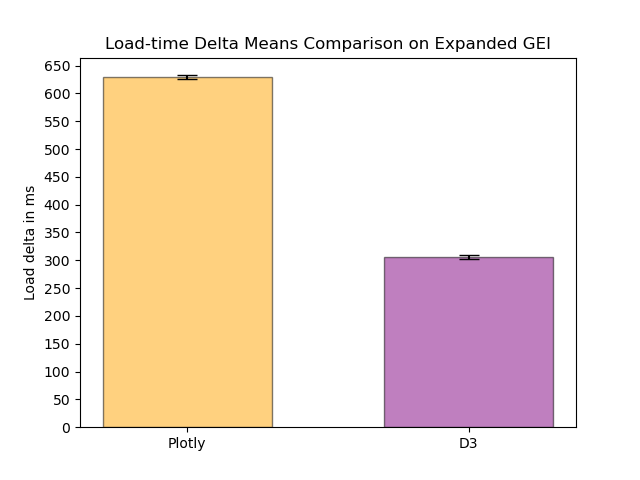
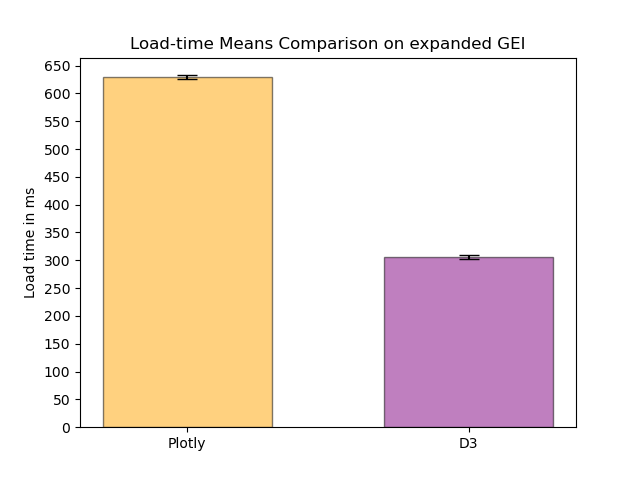
adjusted wording on load time means bar charts

Changed region(s): [[0.1562, 0.0625, 0.875, 0.125], [0.0312, 0.375, 0.0625, 0.625]]

diff --git a/experimentData/run2-1000/dataScripts/CI.py b/experimentData/run2-1000/dataScripts/CI.py
@@ -13,10 +13,10 @@ def mean_confidence_interval(data, confidence=0.95):
 
 
 # Read your data from file
-plotly = "../plotly/diffs/org/plotly_org_timeDiff.txt"
+plotly = "../plotly/diffs/exp/plotly_exp_timeDiff.txt"
 plotly_df = pd.read_csv(plotly, header=None, names=['delta'])
 
-d3_data = "../d3/diffs/org/d3_org_timeDiff.txt"
+d3_data = "../d3/diffs/exp/d3_exp_timeDiff.txt"
 d3_df = pd.read_csv(d3_data, header=None, names=['delta'])
 
 print("CI plotly delta: ", mean_confidence_interval(plotly_df['delta']))
@@ -65,10 +65,10 @@ plt.bar(barsOrder, barsData, color=colors, edgecolor='black', width=barWidth,
 # Put a tick on the x-axis undex each bar and label it with column name
 # plt.xticks(range(len(df.columns)), df.columns)
 
-plt.ylabel('Load delta in ms')
+plt.ylabel('Load time in ms')
 plt.yticks(range(0, 700, 50))
 plt.xticks(range(2), ['Plotly', 'D3'])
-plt.title('Load-time Delta Means Comparison on Original GEI')
+plt.title('Load-time Means Comparison on expanded GEI')
 plt.grid(False)
-plt.savefig('../Graphs/loadTimeDeltaOrg.png')
+plt.savefig('../Graphs/loadTimeDeltaExp.png')
 # plt.show()
